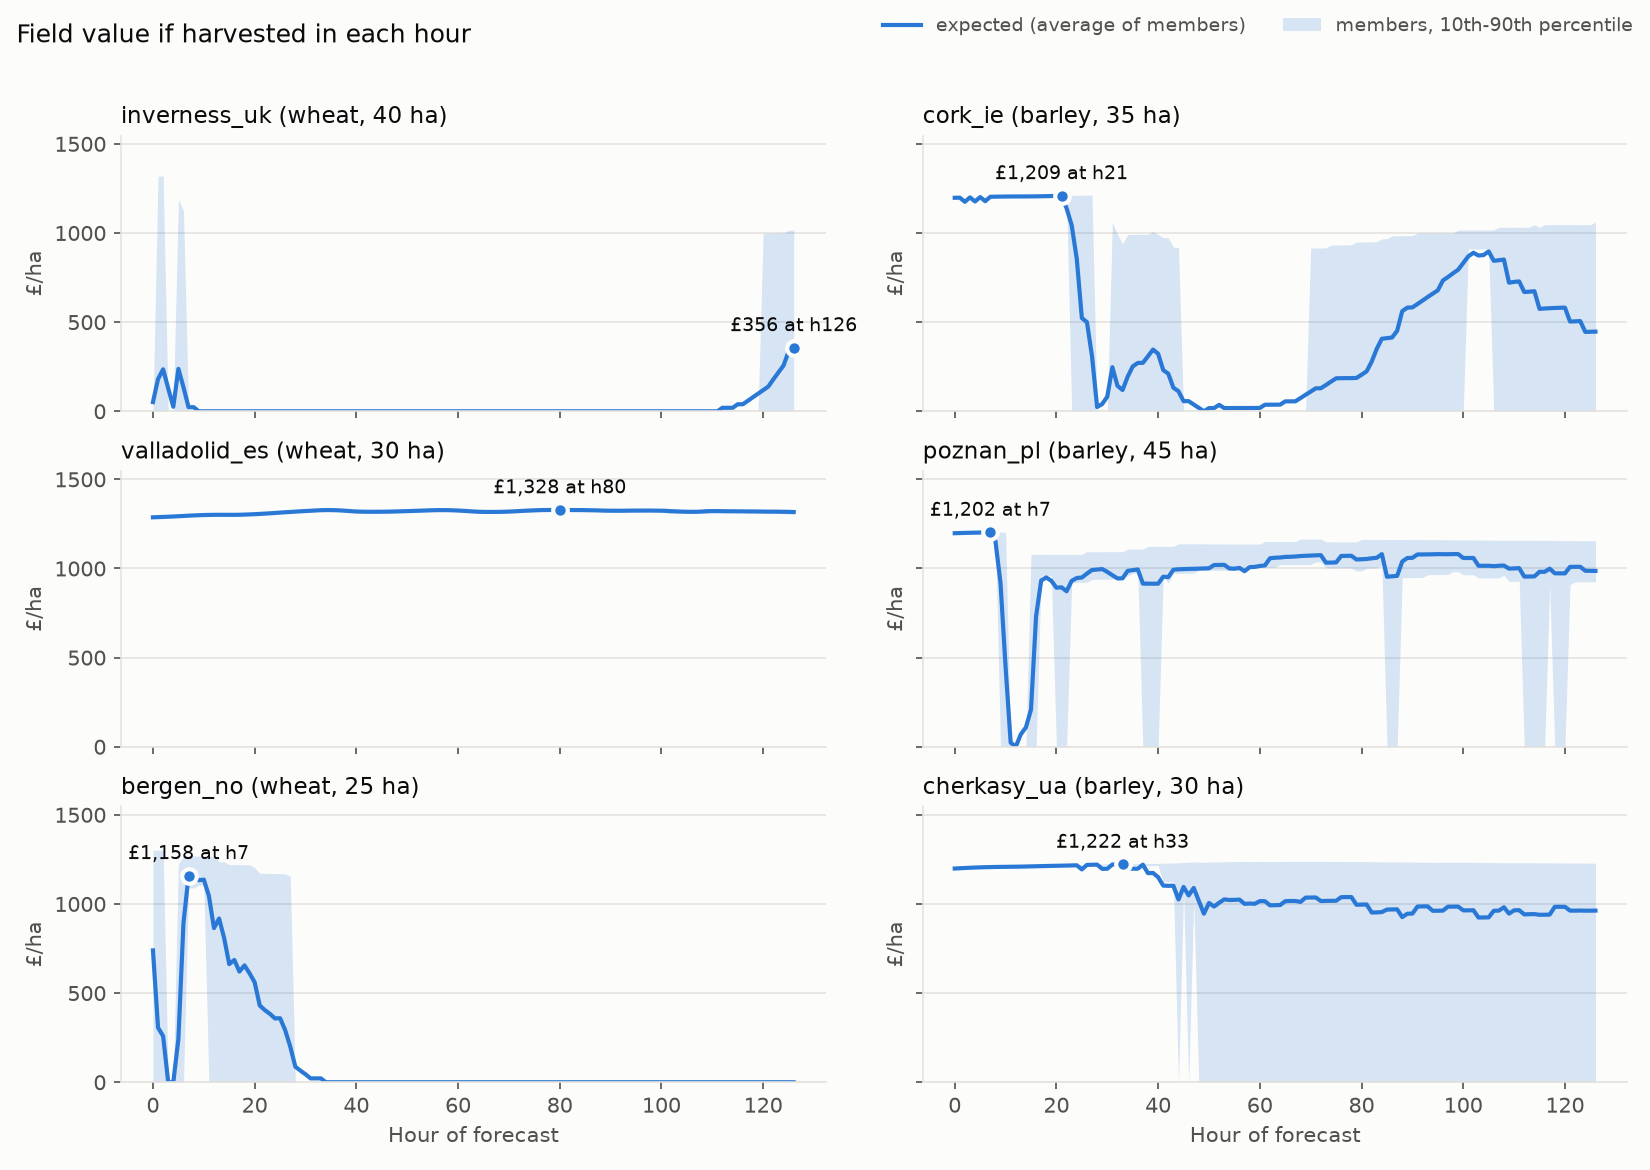
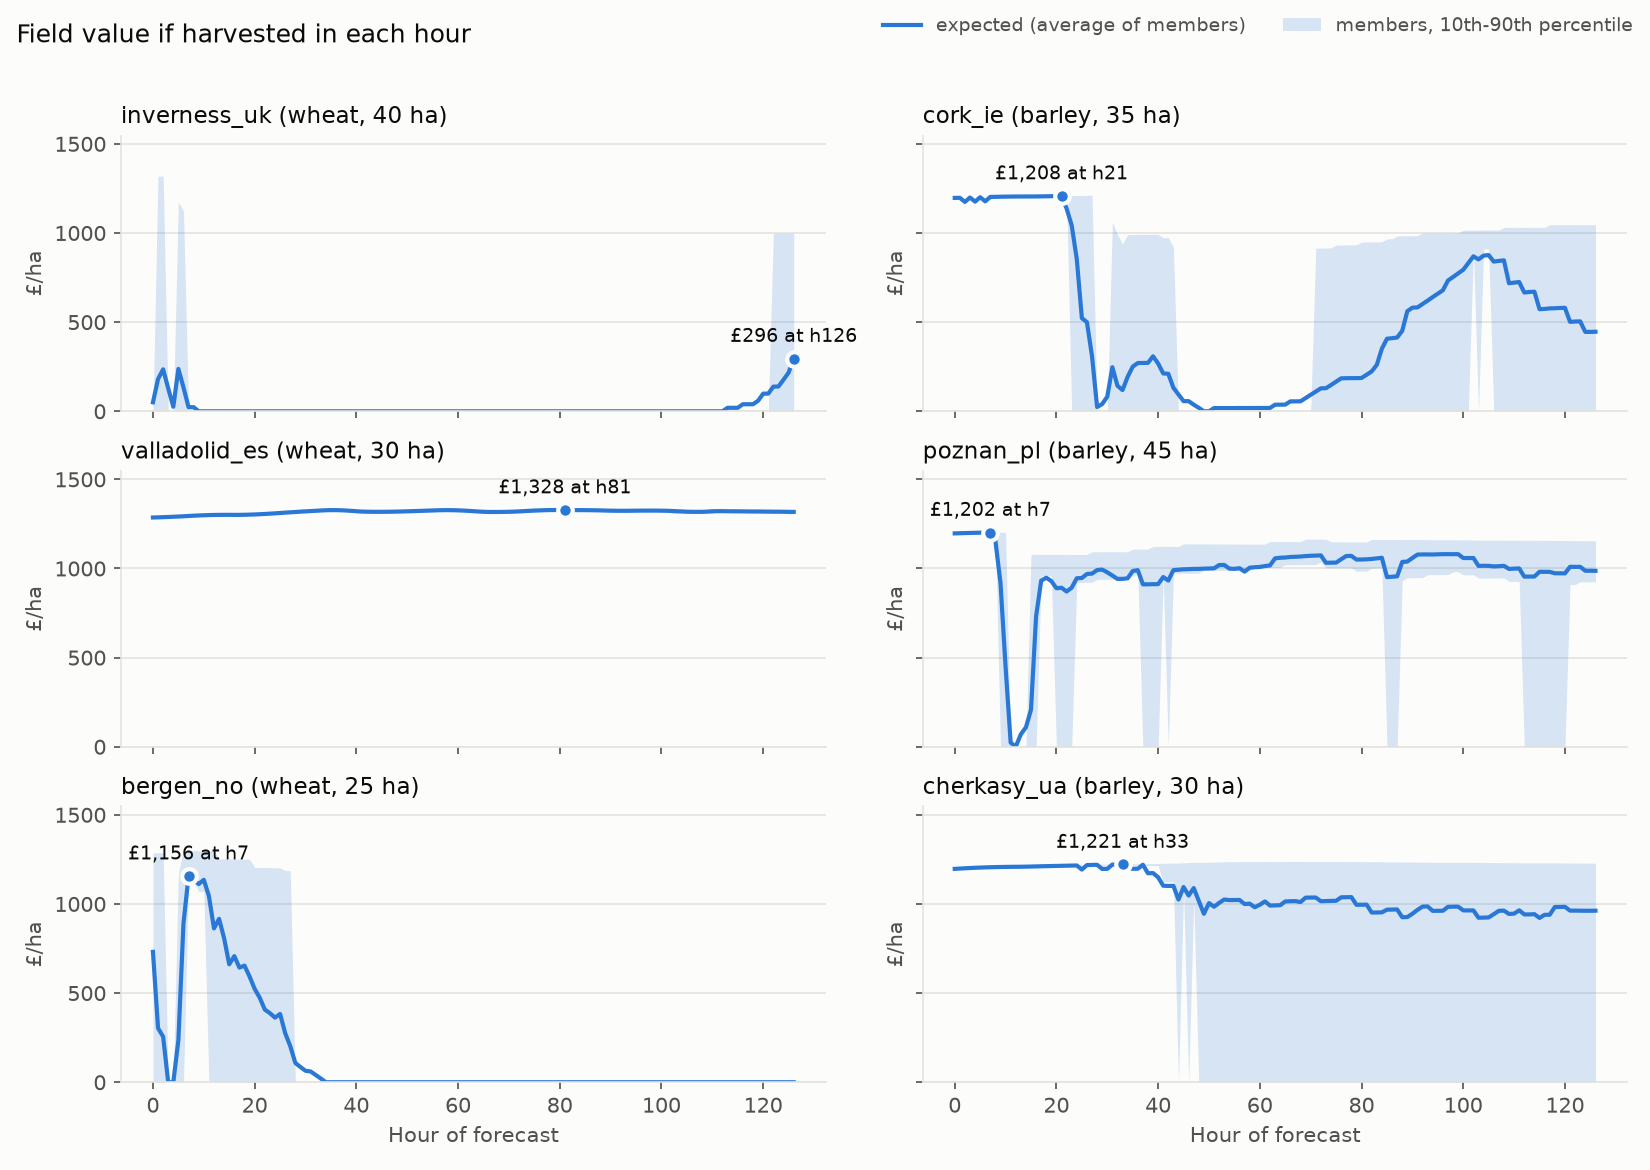
moist

diff --git a/tests/test_pipeline.py b/tests/test_pipeline.py
@@ -39,6 +39,17 @@ def demo_params():
     return yaml.safe_load((ROOT / "params.yaml").read_text(encoding="utf-8"))
 
 
+def start_every_crop_at(params, pct):
+    """Hour-0 grain moisture (%) of every crop in params["crops"], for the hand-made farms.
+
+    Only start_moisture_pct is set: these farms have no temperature, so the moisture model never
+    runs; predict_moisture uses its simple humidity/rain model instead.
+    """
+    params["moisture_model"]["crops"] = {
+        crop: {"start_moisture_pct": pct} for crop in params["crops"]
+    }
+
+
 def tiny_farm():
     """Hand-made case where we know the answer.
 
@@ -56,7 +67,6 @@ def tiny_farm():
         forecast_every_hours=4,
         loss_pct_per_hour=0,
         drying_pct_per_hour=0,
-        temp_start_moisture_pct=14,
         crops={
             "cheap": {
                 "price_gbp_per_t": 50,
@@ -78,6 +88,7 @@ def tiny_farm():
         machines=[{"name": "m0", "ha_per_hour": 1, "start": "f0"}],
         travel_hours=[[0, 2, 2], [2, 0, 2], [2, 2, 0]],
     )
+    start_every_crop_at(params, 14)
     dry_weather = {
         "rain_mm": np.zeros((2, 2, 4)),  # [member, field, hour]
         "humidity_pct": np.full((2, 2, 4), 60.0),
@@ -104,7 +115,6 @@ def rain_farm():
         forecast_every_hours=3,
         loss_pct_per_hour=0,
         drying_pct_per_hour=1,
-        temp_start_moisture_pct=16,
         crops={
             "grain": {
                 "price_gbp_per_t": 100,
@@ -120,6 +130,7 @@ def rain_farm():
         machines=[{"name": "m0", "ha_per_hour": 1, "start": "depot"}],
         travel_hours=np.zeros((3, 3)).tolist(),
     )
+    start_every_crop_at(params, 16)
     rain = np.zeros((2, 2, 3))  # [member, field, hour]
     rain[:, :, 2] = 1.0
     weather = {"rain_mm": rain, "humidity_pct": np.zeros((2, 2, 3))}  # bone-dry air
@@ -262,6 +273,19 @@ def test_value_uses_moisture_forecast_shifted_to_the_reading():
     # 13%: no drying charge, but the 1 t quoted at 14% weighs only 0.86/0.87 t this dry
     assert value[1, 3] == pytest.approx(200 * 0.86 / 0.87)
     assert value[1, 0] < value[1, 3]  # wetter grain costs more to dry
+
+
+def test_live_forecast_runs_the_moisture_model_from_each_crops_start():
+    params = demo_params()
+    weather = load_forecast(ROOT / "data" / "forecast.csv", params)
+    assert weather["temp_c"].shape == weather["rain_mm"].shape  # so predict_moisture re-runs it
+    assert "moisture_pct" not in weather
+    crops = params["moisture_model"]["crops"]
+    starts = [crops[field["crop"]]["start_moisture_pct"] for field in params["fields"]]
+    assert start_moisture(weather, params) == pytest.approx(starts)
+    moisture = predict_moisture(start_moisture(weather, params), weather, params)
+    assert moisture[:, :, 0] == pytest.approx(np.tile(starts, (moisture.shape[0], 1)))
+    assert moisture.max() <= 100 * 0.52 / 1.52 + 1e-9  # never above the rain cap (rain_max_mc)
 
 
 def test_moisture_csv_must_match_the_forecast():

diff --git a/scripts/plot_field_values.py b/scripts/plot_field_values.py
@@ -2,8 +2,7 @@
 
 The line is the expected £/ha that the planner sees (field_values, averaged over members). The
 band shows how much the forecast members disagree. 0 means "can't harvest" (rain or too wet).
-Moisture comes from outputs/moisture_forecast.csv; make it first with
-`uv run python scripts/moisture_forecast.py`.
+Moisture comes from the moisture model, run from each field's starting moisture, as run.py does.
 Run:  uv run python scripts/plot_field_values.py
 """
 
@@ -21,7 +20,7 @@ from plot_drying_cost import BLUE, MUTED, SURFACE, TEXT, style  # noqa: E402
 
 from harvest.forecast import load_forecast  # noqa: E402
 from harvest.value import field_values, start_moisture  # noqa: E402
-from run import FORECAST_CSV, MOISTURE_CSV  # noqa: E402
+from run import FORECAST_CSV  # noqa: E402
 
 OUTPUT = ROOT / "outputs" / "field_values.png"
 BAND_PCT = (10, 90)  # members between these percentiles are shaded
@@ -98,7 +97,7 @@ def plot_per_field(per_member, params, title, ylabel, pick_best, best_label):
 
 def main():
     params = yaml.safe_load((ROOT / "params.yaml").read_text(encoding="utf-8"))
-    weather = load_forecast(FORECAST_CSV, params, MOISTURE_CSV)
+    weather = load_forecast(FORECAST_CSV, params)
     per_member = values_per_member(weather, params)  # [member, field, hour]
     fig, axes = plot_per_field(
         per_member,

diff --git a/harvest/forecast.py b/harvest/forecast.py
@@ -6,7 +6,8 @@ To use a different prediction format, rewrite load_forecast() so it returns the 
 import numpy as np
 import pandas as pd
 
-COLUMNS = ["rain_mm", "humidity_pct"]
+# temp_c lets value.predict_moisture re-run the grain moisture model from every reading
+COLUMNS = ["rain_mm", "humidity_pct", "temp_c"]
 
 
 def sort_by_field(table, params):
@@ -28,8 +29,9 @@ def load_forecast(path, params, moisture_path=None):
     path:          the forecast CSV file
     params:        settings from params.yaml (the field order comes from params["fields"])
     moisture_path: outputs/moisture_forecast.csv (from scripts/moisture_forecast.py), or None
-    returns: {"rain_mm": [member, field, hour], "humidity_pct": [member, field, hour]},
-             plus "moisture_pct": [member, field, hour] when moisture_path is given
+    returns: {"rain_mm", "humidity_pct", "temp_c"}: [member, field, hour],
+             plus "moisture_pct": [member, field, hour] when moisture_path is given (then
+             predict_moisture slides those curves instead of re-running the moisture model)
     """
     table, shape = sort_by_field(pd.read_csv(path), params)
     weather = {column: table[column].to_numpy(dtype=float).reshape(shape) for column in COLUMNS}

diff --git a/run.py b/run.py
@@ -3,7 +3,8 @@
 uv run python run.py
 
 The forecast is data/forecast.csv (uv run python data/download_forecast.py for a fresh one); one
-of its members plays the weather that really happens. Past days: replay.py and compare.py.
+of its members plays the weather that really happens. Grain moisture comes from the moisture model
+(harvest/moisture.py), re-run from every reading. Past days: replay.py and compare.py.
 """
 
 from pathlib import Path
@@ -19,14 +20,11 @@ from harvest.simulate import activities, run_season
 
 ROOT = Path(__file__).parent
 FORECAST_CSV = ROOT / "data" / "forecast.csv"
-MOISTURE_CSV = (
-    ROOT / "outputs" / "moisture_forecast.csv"
-)  # make it: uv run python scripts/moisture_forecast.py
 
 
 def main():
     params = yaml.safe_load((ROOT / "params.yaml").read_text(encoding="utf-8"))
-    weather = load_forecast(FORECAST_CSV, params, MOISTURE_CSV)
+    weather = load_forecast(FORECAST_CSV, params)  # with temp_c: moisture model from each reading
     result = run_season(weather, params)
     print_results(result, params)
     plot_results(result, params)

diff --git a/harvest/value.py b/harvest/value.py
@@ -12,14 +12,18 @@ def start_moisture(weather, params):
     """Grain moisture (%) of every field at hour 0.
 
     From the moisture forecast (weather["moisture_pct"], averaged over members) when it is
-    loaded, otherwise the same placeholder, temp_start_moisture_pct, for every field.
+    loaded, otherwise the start_moisture_pct of each field's crop in params["moisture_model"]
+    (placeholders until there is a real reading).
 
     weather: {name: [member, field, hour]}  forecast
     returns: [field]                        grain moisture at hour 0, %
     """
     if "moisture_pct" in weather:
         return weather["moisture_pct"][:, :, 0].mean(axis=0)
-    return np.full(len(params["fields"]), float(params["temp_start_moisture_pct"]))
+    crops = params["moisture_model"]["crops"]
+    return np.array(
+        [crops[field["crop"]]["start_moisture_pct"] for field in params["fields"]], dtype=float
+    )
 
 
 def predict_moisture(start_moisture, weather, params):

diff --git a/scripts/plot_field_moisture.py b/scripts/plot_field_moisture.py
@@ -22,9 +22,9 @@ from plot_drying_cost import MUTED, SURFACE  # noqa: E402
 from plot_field_values import plot_per_field  # noqa: E402
 
 from harvest.forecast import load_moisture  # noqa: E402
-from run import MOISTURE_CSV  # noqa: E402
 
 OUTPUT = ROOT / "outputs" / "field_moisture.png"
+MOISTURE_CSV = ROOT / "outputs" / "moisture_forecast.csv"
 
 
 def main():

diff --git a/harvest/README.md b/harvest/README.md
@@ -25,13 +25,16 @@ Reads the prediction data.
 |---|---|---|---|
 | in | `path` | file path | the CSV (format in `data/README.md`) |
 | in | `params` | dict | uses `params["fields"]` for the field order |
-| out | `weather` | dict of 2 arrays | `weather["rain_mm"]`: `[M, F, H]` rain per hour, mm |
+| out | `weather` | dict of 3 arrays | `weather["rain_mm"]`: `[M, F, H]` rain per hour, mm |
 | | | | `weather["humidity_pct"]`: `[M, F, H]` relative humidity, % |
+| | | | `weather["temp_c"]`: `[M, F, H]` air temperature, °C (lets `predict_moisture` re-run the moisture model from each reading) |
 
 Optional third input **`moisture_path`**: `outputs/moisture_forecast.csv` (written by
 `scripts/moisture_forecast.py`). Adds `weather["moisture_pct"]`: `[M, F, H]` grain moisture
-(% wet basis, end of each hour), and the value function then uses it (see below). `run.py`
-passes it. It must come from the same `forecast.csv`, or loading stops with an error.
+(% wet basis, end of each hour), and the value function then slides those curves to each reading
+instead of re-running the model (see below). `run.py` no longer passes it: sliding a curve worked
+out from a different starting moisture gives the wrong shape. It must come from the same
+`forecast.csv`, or loading stops with an error.
 
 Also **`load_moisture(path, params)`**: reads just that CSV, out `[M, F, H]`, each field taking the
 column of its own crop. Feed it to `drying_cost_gbp_per_t` (see `scripts/plot_drying_cost.py`).
@@ -50,10 +53,11 @@ The value function: what is a field worth if we harvest it in a given hour?
 Uses a helper, **`predict_moisture(start_moisture, weather, params)`**:
 in `[F]` and `[M, F, H]`, out `[M, F, H]` grain moisture (%) each hour.
 The simulator also uses it to get the "true" moisture that the sensor reads.
-With `weather["moisture_pct"]` it takes the moisture forecast, shifted so each member starts at
-the latest reading (keeping that member's hour-to-hour change). With `weather["temp_c"]` (the past
-forecasts of `replay.py`) it runs the grain moisture model of `moisture.py` from the reading.
-Without either, a simple model (dries with low humidity, wets with rain).
+With `weather["temp_c"]` (`run.py`, and the past forecasts of `replay.py`) it runs the grain
+moisture model of `moisture.py` from the reading. With `weather["moisture_pct"]` instead (only when
+a moisture CSV is passed to `load_forecast`) it slides each member's precomputed curve to start at
+the reading, keeping its hour-to-hour change; that is only right if the curve started near the
+reading. Without either, a simple model (dries with low humidity, wets with rain).
 
 And **`member_values(...)`**: same inputs, out `[M, F, H]`, the value in each member before
 averaging. `field_values` is its average over members.
@@ -70,8 +74,9 @@ every hour the crop has stood, and 0 in rain or when too wet to combine.
 - Value peaks at 14-14.5% for cereals and 9% for oilseed rape, and falls on both sides.
 
 And **`start_moisture(weather, params)`**: in `[M, F, H]`, out `[F]` grain moisture (%) of each
-field at hour 0: hour 0 of `weather["moisture_pct"]` averaged over members, or the placeholder
-`temp_start_moisture_pct` for every field when there is no moisture forecast.
+field at hour 0: hour 0 of `weather["moisture_pct"]` averaged over members, or otherwise (`run.py`,
+`replay.py`) the `start_moisture_pct` of each field's crop under `moisture_model` in `params.yaml`
+(placeholders until there is a real reading).
 
 ## 3. `planners/`: `plan_*(value, state, params)`
 
@@ -183,9 +188,9 @@ precipitation (rain, showers and snow), so the forecasts and the real weather ma
 
 A physically based model of grain moisture for wheat, barley and oilseed rape (`"osr"`). It reads
 `temp_c`, `humidity_pct` and `rain_mm` straight from the forecast CSV.
-`scripts/moisture_forecast.py` saves the result to `outputs/moisture_forecast.csv`, which the
-pipeline reads through `load_forecast(..., moisture_path=...)`. `predict_moisture` runs it directly when the forecast has
-temperature (past dates: `replay.py`, `compare.py`). All constants, including each crop's starting moisture
+The pipeline runs it through `predict_moisture`, from every moisture reading, because the forecast
+has temperature (`run.py`, `replay.py`, `compare.py`). `scripts/moisture_forecast.py` also saves a
+run from the starting moistures to `outputs/moisture_forecast.csv`, for the plots. All constants, including each crop's starting moisture
 (`start_moisture_pct`, placeholders for now), are in `params.yaml` under `moisture_model`, with
 sources. To use the official ASABE D245.7 Henderson constants, replace `henderson_k/c/n` there.
 
